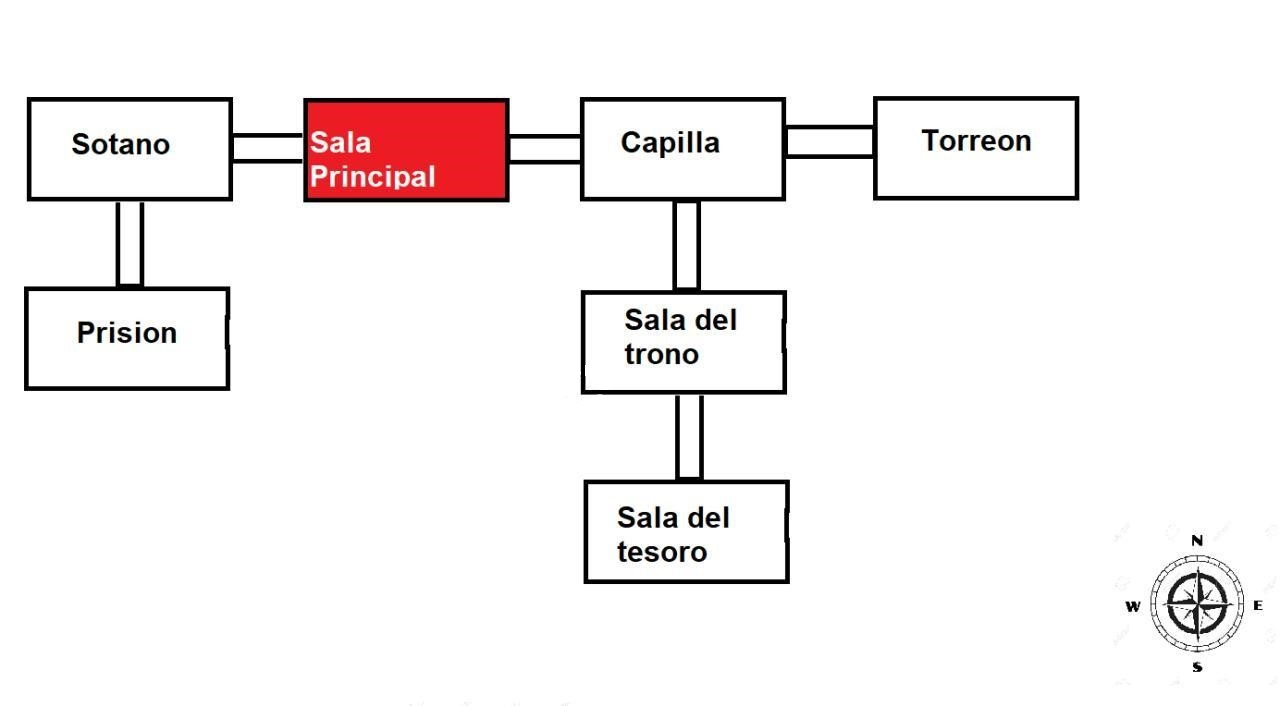
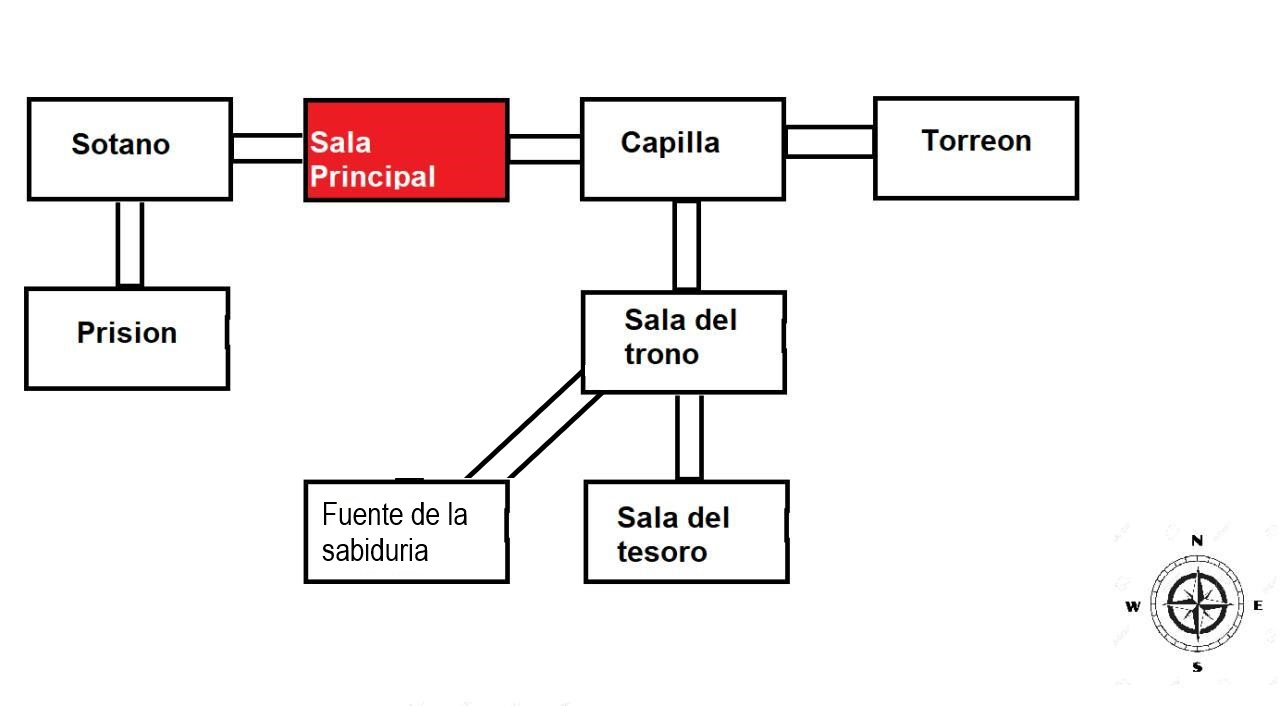
04.Nueva direccion y sala implementadas correctamente

Changed region(s): [[0.2188, 0.5297, 0.4688, 0.8414]]

diff --git a/Game.java b/Game.java
@@ -44,16 +44,16 @@ public class Game
         torreon = new Room("on a decrepit tower");
         salaDelTrono = new Room("on the majestic throne room");
         salaDelTesoro = new Room("on a filled with gold treasure room");
-
+        fuenteDeLaSabiduria  = new Room("the new sage king");
         // initialise room exits
-        salaPrincipal.setExits(null, capilla, null, sotano);
-        sotano.setExits(null, salaPrincipal, prision, null);
-        prision.setExits(sotano, null, null, null);
-        capilla.setExits(null, torreon, salaDelTrono, salaPrincipal);
-        torreon.setExits(null, null, null, capilla);
-        salaDelTrono.setExits(capilla, null, salaDelTesoro, null);
-        salaDelTesoro.setExits(salaDelTrono, null, null, null);
-
+        salaPrincipal.setExits(null, capilla, null, sotano, null);
+        sotano.setExits(null, salaPrincipal, prision, null, null);
+        prision.setExits(sotano, null, null, null, null);
+        capilla.setExits(null, torreon, salaDelTrono, salaPrincipal, null);
+        torreon.setExits(null, null, null, capilla, null);
+        salaDelTrono.setExits(capilla, null, salaDelTesoro, null, fuenteDeLaSabiduria);
+        salaDelTesoro.setExits(salaDelTrono, null, null, null, null);
+        fuenteDeLaSabiduria.setExits(null, null, null, null, null);
         currentRoom = salaPrincipal;  // start game outside
     }
 
@@ -163,7 +163,9 @@ public class Game
         if(direction.equals("west")) {
             nextRoom = currentRoom.westExit;
         }
-
+         if(direction.equals("southwest")) {
+            nextRoom = currentRoom.southwestExit;
+        }
         if (nextRoom == null) {
             System.out.println("There is no door!");
         }
@@ -189,6 +191,9 @@ public class Game
         }
         if(currentRoom.westExit != null) {
             direction += "west ";
+        }
+        if(currentRoom.southwestExit != null) {
+            direction += "southwest ";
         }
         return direction;
     }

diff --git a/Room.java b/Room.java
@@ -19,6 +19,7 @@ public class Room
     public Room southExit;
     public Room eastExit;
     public Room westExit;
+    public Room southwestExit;
 
     /**
      * Create a room described "description". Initially, it has
@@ -39,7 +40,7 @@ public class Room
      * @param south The south exit.
      * @param west The west exit.
      */
-    public void setExits(Room north, Room east, Room south, Room west) 
+    public void setExits(Room north, Room east, Room south, Room west, Room southwest) 
     {
         if(north != null)
             northExit = north;
@@ -49,6 +50,8 @@ public class Room
             southExit = south;
         if(west != null)
             westExit = west;
+        if(southwest != null)
+            southwestExit = southwest;
     }
 
     /**
